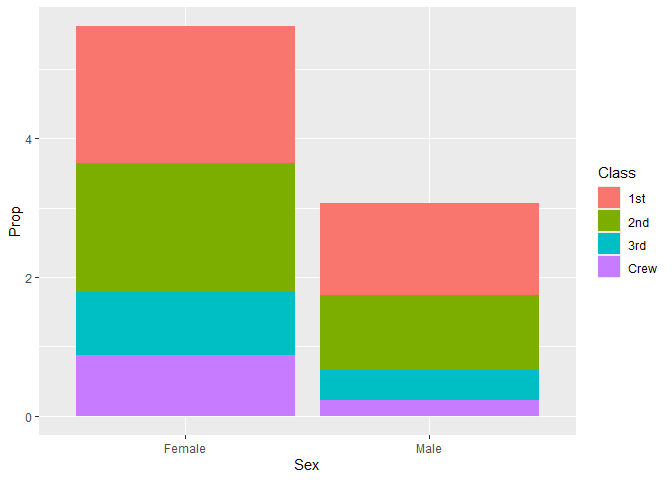
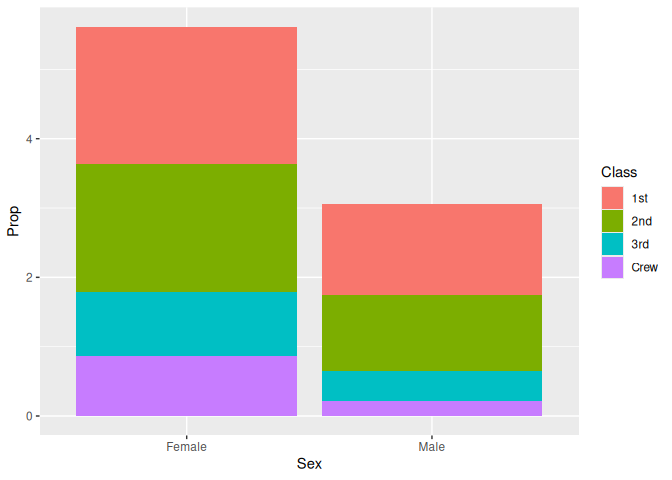
challenge 01 done

diff --git a/challenges/c01-titanic-assignment.md b/challenges/c01-titanic-assignment.md
@@ -115,7 +115,13 @@ glimpse(df_titanic)
 
 **Observations**:
 
-- (List all variables here)
+- Class (1st, 2nd, 3rd, crew)
+- Sex (male, female)
+- Age (adult, child)
+- Survived (yes, no)
+- How many people are in the group
+
+There are 32 rows total (1 for each group).
 
 ### **q2** Skim the [Wikipedia article](https://en.wikipedia.org/wiki/RMS_Titanic) on the RMS Titanic, and look for a total count of souls aboard. Compare against the total computed below. Are there any differences? Are those differences large or small? What might account for those differences?
 
@@ -136,7 +142,7 @@ df_titanic %>% summarize(total = sum(n))
   - According to the Wikipedia page, there were 2208 passengers and crew
     aboard
 - Are there any differences?
-  - The data set includes 2201, which is slightly different
+  - The data set includes 2201, which is slightly different (7 off)
 - If yes, what might account for those differences?
   - Different sources having different information, inaccurate records
 
@@ -280,6 +286,7 @@ ggplot(survivors_prop, aes(x = Sex, y = Prop, fill = Class)) +
   - Women were significantly more likely to survive than men
   - Very few crew survived
 - Is there anything *fishy* going on in your plot?
+  - Some of the group proportions were greater than 1.
 
 ### **q5** Create a plot showing the group-proportion of occupants who *did* survive, along with aesthetics for `Class`, `Sex`, *and* `Age`. Document your observations below.
 
@@ -330,7 +337,12 @@ ggplot(survivors_prop, aes(x = Sex, y = Prop, fill = Class)) +
 - (Write your observations here.)
 - If you saw something *fishy* in q4 above, use your new plot to explain
   the fishy-ness.
-  - Children were very likely to survive
+  - Children were very likely to survive - almost all 1st and 2nd class
+    children survived, though 3rd class children had a much lower
+    survival rate.
+  - Separating out children and adults solved the “fishiness” - the
+    proportions were greater than 1 because they came from combining 2
+    groups.
 
 # Notes
 
